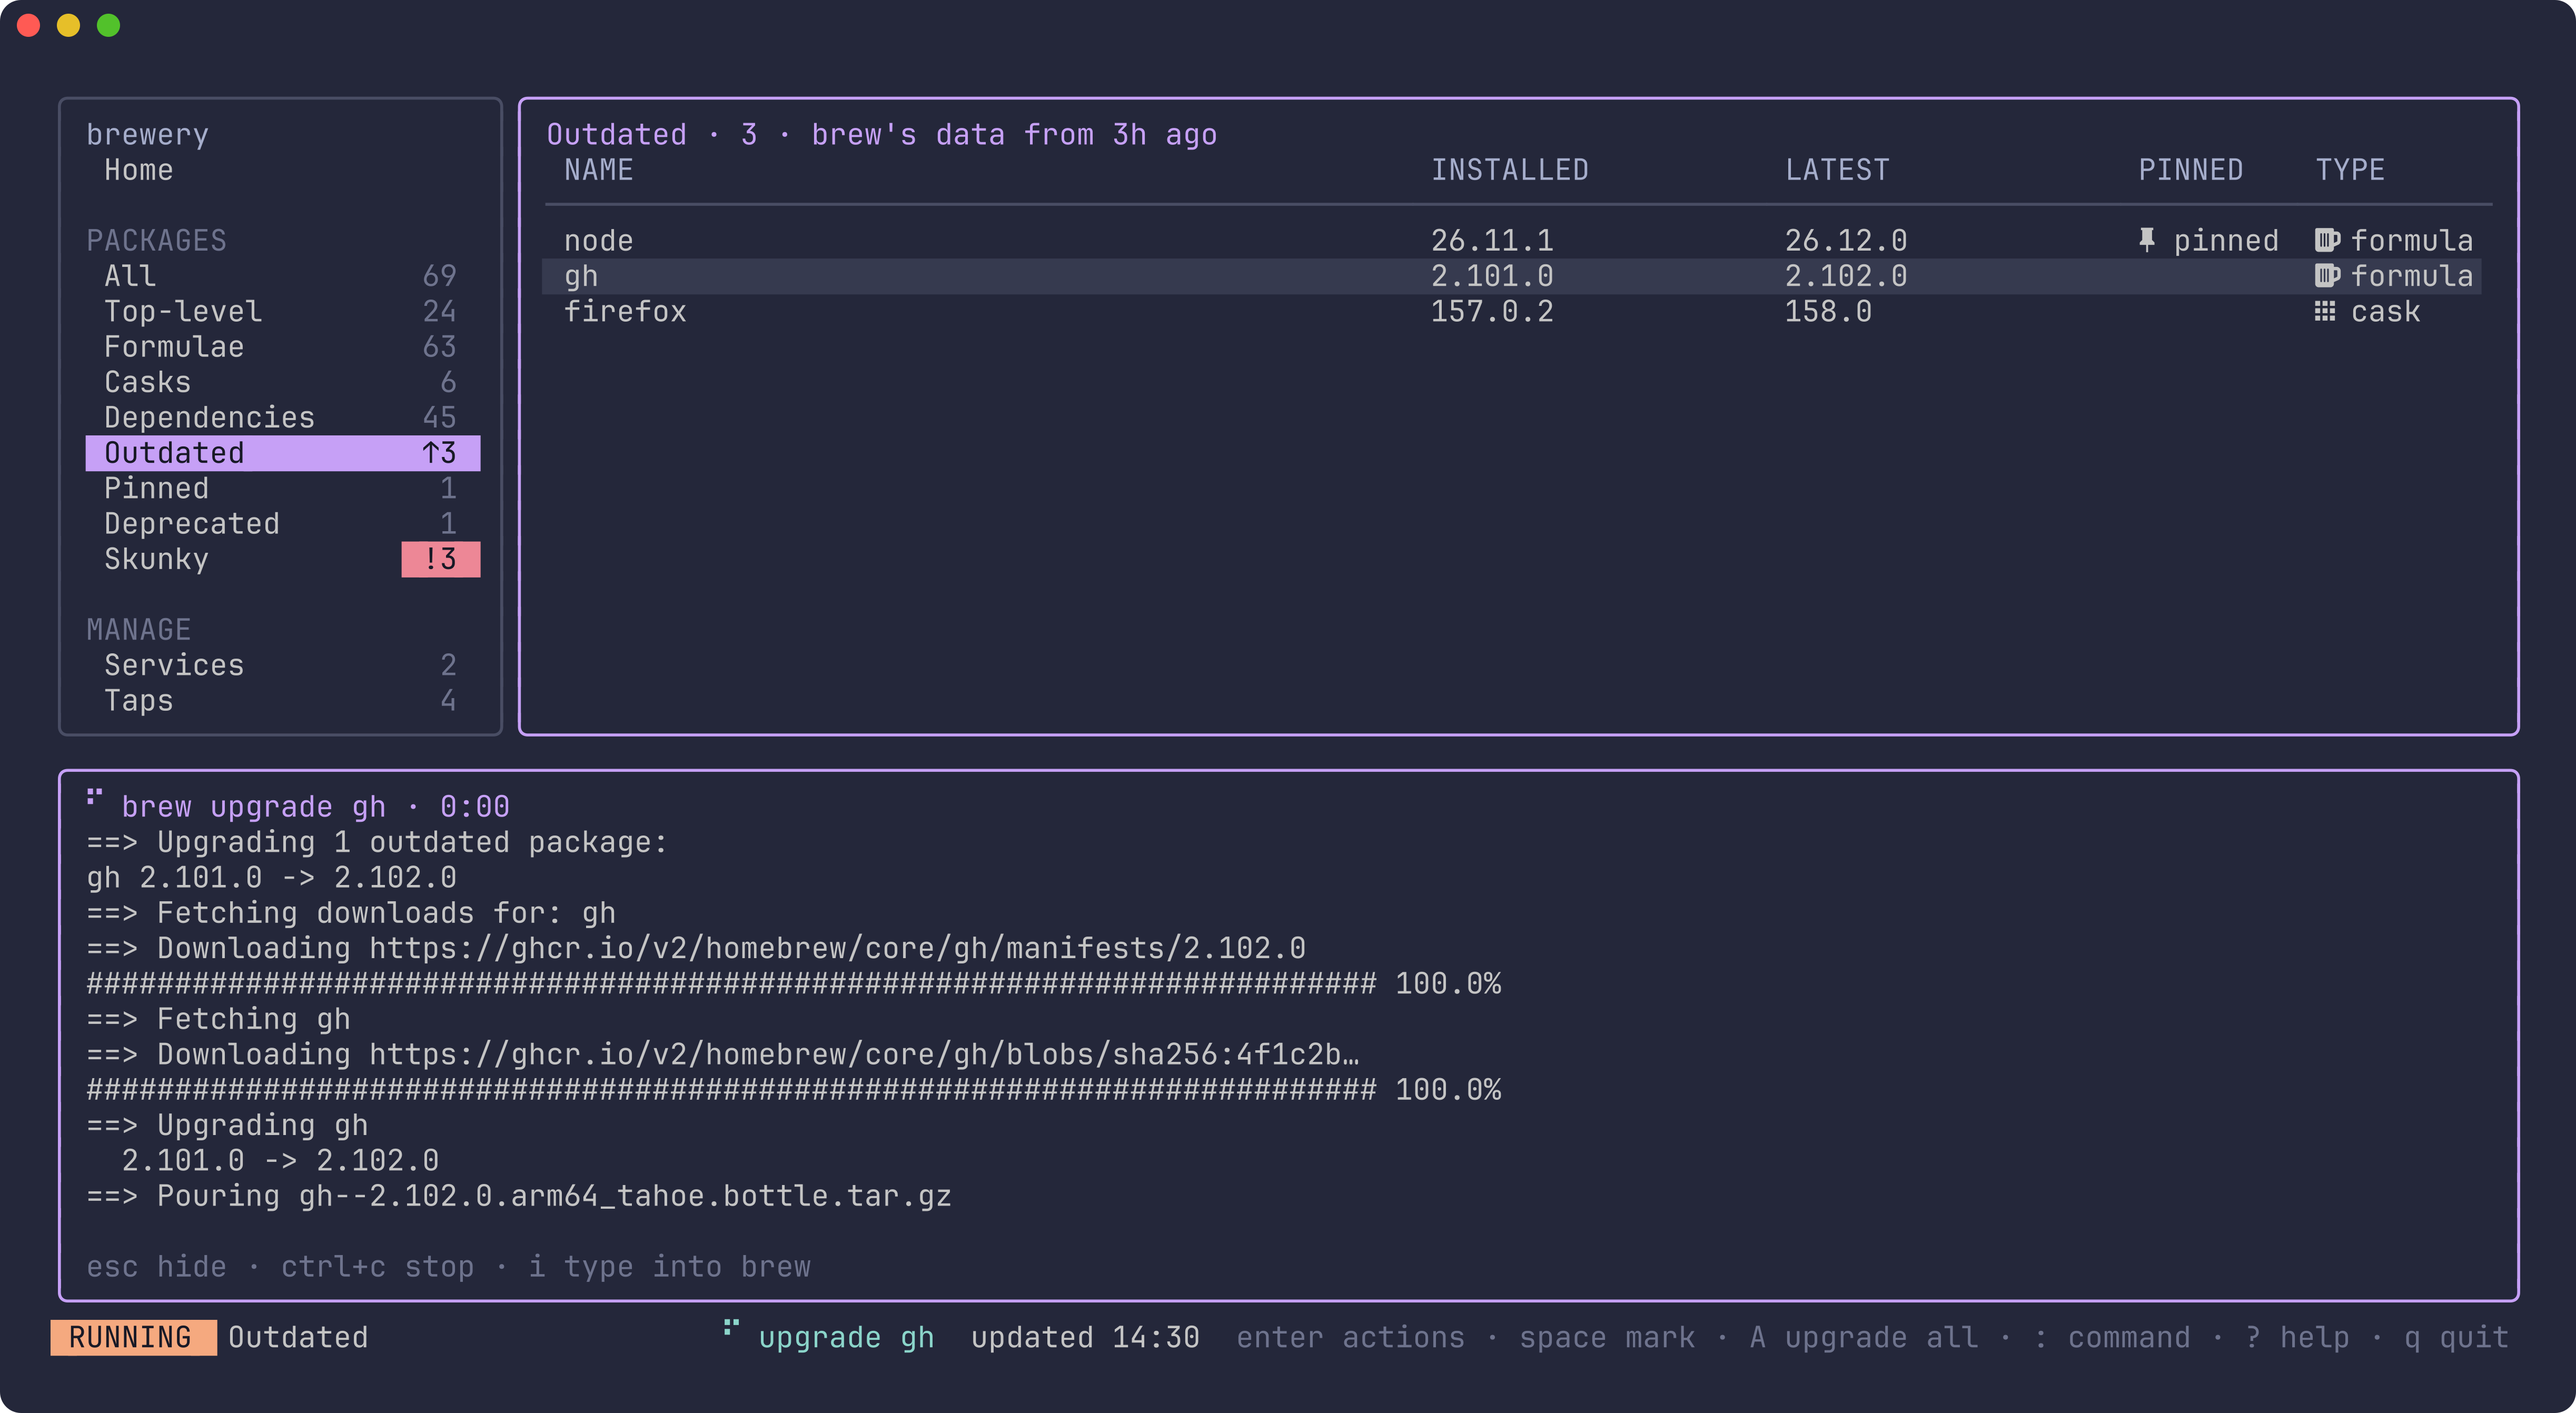
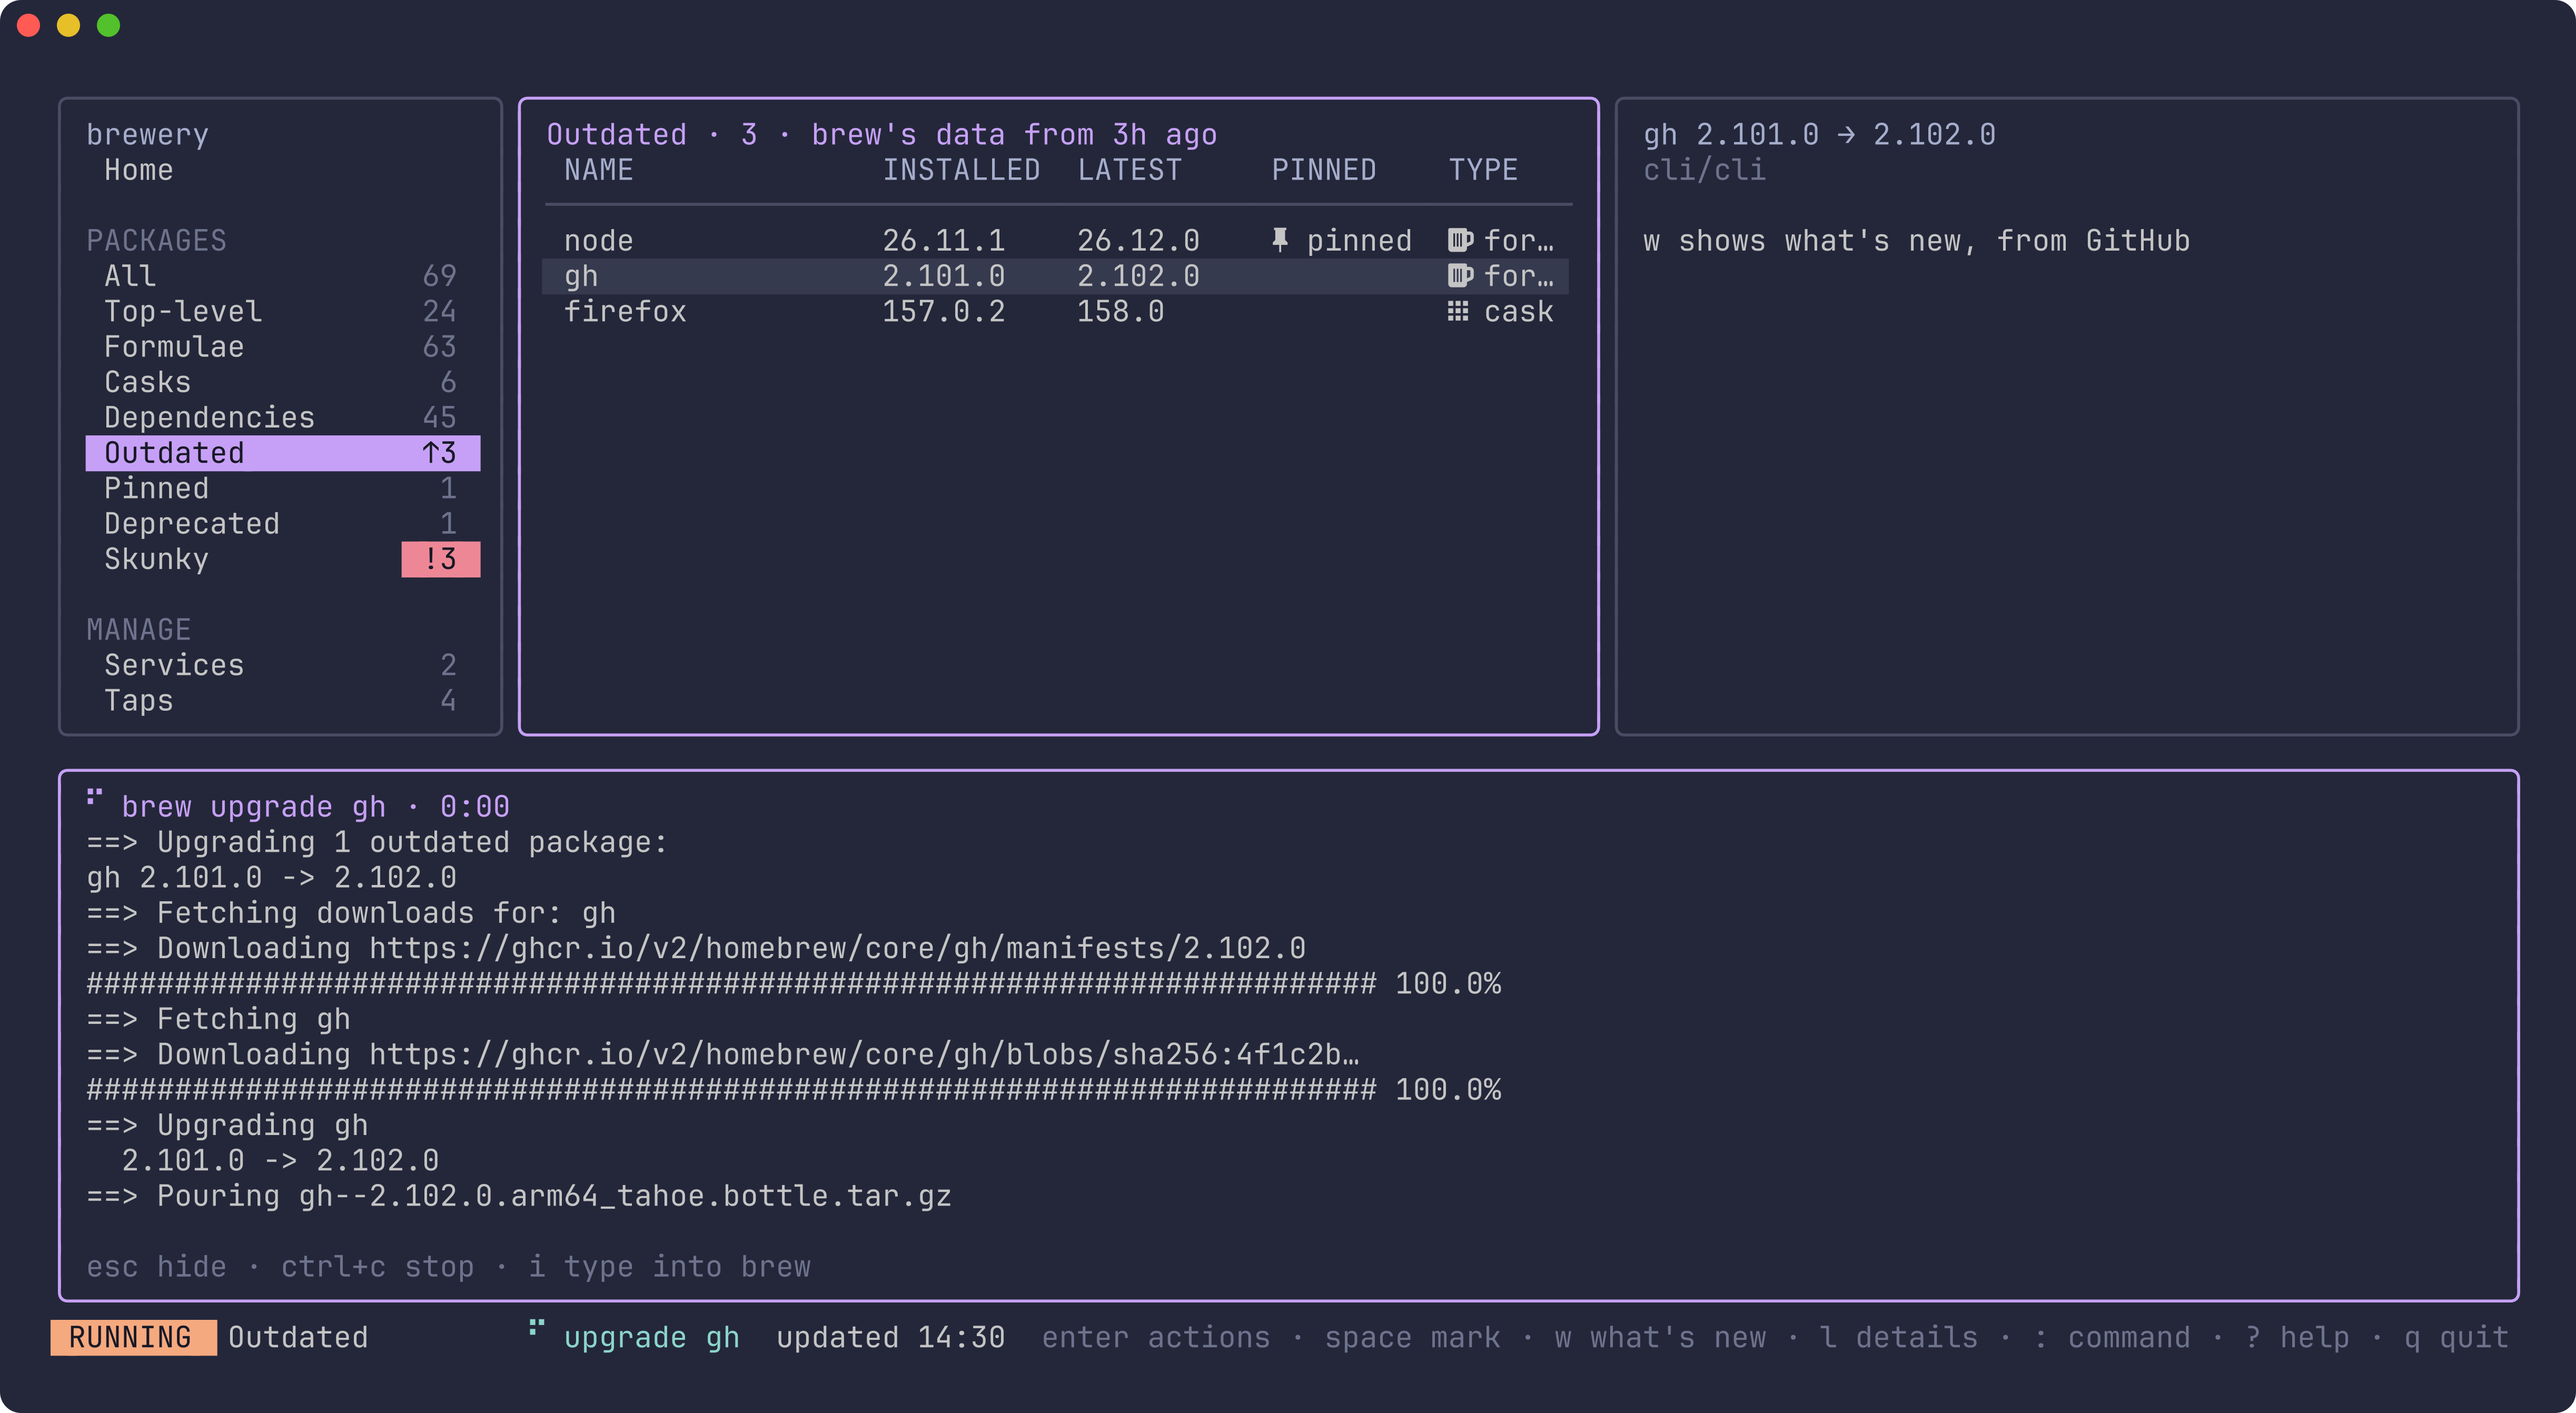
docs: What's new in the README and screenshots
- A new screenshot, whats-new.png: gh's release notes beside Outdated.
- upgrade.png now shows Outdated with its details pane.
- deprecated, installed, menu and skunky pick up the "no Homebrew package
  depends on this" wording from 4967132, which they predated.
- The README gains the screenshot, w in the keys, what gx opens on
  Outdated, and what the cache keeps.
- make screenshots needs librsvg: freeze's own renderer draws no text in
  the JetBrains Mono Nerd Font.

diff --git a/README.md b/README.md
@@ -66,12 +66,12 @@ A few notes:
   dependency is pinned behind it.
 - Uninstall, with an offer to remove the dependencies nothing else needs.
 - What's new: press `w` on an outdated package to read the release notes
-  from GitHub for every version you'd be skipping over, newest first. Words
-  like *breaking* and *removed* are highlighted, and Upgrade all warns when
-  notes you've read mention them. Brewery asks GitHub only when you press
-  `w` or pick What's new, sends it only the repository's name, and keeps
-  what it fetched.
-  Packages that aren't on GitHub link to their homepage instead.
+  from GitHub for every version you'd be skipping over, newest first, beside
+  the Outdated list. Words like *breaking* and *removed* are highlighted, and
+  Upgrade all warns when notes you've read mention them. brewery asks GitHub
+  only when you press `w` or pick What's new, sends it only the repository's
+  name, and keeps what it fetched until there's a newer version. Packages
+  that aren't on GitHub point to their homepage instead.
 - Pin and unpin, reinstall, link and unlink (including keg-only formulae),
   and fetch a newer version ahead of upgrading.
 - Deprecated and disabled packages are marked in the list, and their details
@@ -142,6 +142,10 @@ Press `enter` on a row for everything you can do with it.
 
 ![The action menu for gh: upgrade, fetch, reinstall, unlink, pin, uninstall, copy the name and open the homepage, each with its key](docs/screenshots/menu.png)
 
+What's new in an upgrade, from the project's release notes on GitHub.
+
+![What's new in gh 2.102.0, beside the Outdated list: its features, fixes and a breaking change, with "breaking" and "removed" highlighted](docs/screenshots/whats-new.png)
+
 Packages on their way out, with brew's reason and what to install instead.
 
 ![The Deprecated view: python@3.13, a versioned formula that will be disabled on 2027-04-01, with python@3.15 as its replacement](docs/screenshots/deprecated.png)
@@ -165,7 +169,7 @@ Find popular and rising packages, and install them.
 
 brew's own output, live. Answer its questions right in the drawer.
 
-![An upgrade of gh running, with brew's output in the drawer below the Outdated list](docs/screenshots/upgrade.png)
+![An upgrade of gh running, with brew's output in the drawer below the Outdated list and gh's details](docs/screenshots/upgrade.png)
 
 Type `/` in the sidebar to jump to an entry.
 
@@ -222,7 +226,7 @@ its actions.
 | `l` `tab` | the details, then `j` `k` scroll them |
 | `/` | filter the list; `esc` clears it |
 | `y` | copy the name (on History, the command) |
-| `gx` | open the homepage |
+| `gx` | open the homepage; on Outdated, the GitHub page for an upgrade with no release notes |
 | `space` | mark several (Installed and Outdated) |
 
 **Shortcuts for actions**, all also in the action menu:
@@ -237,6 +241,7 @@ its actions.
 | | `f` | fetch the newer version |
 | Outdated | `u` | upgrade |
 | | `f` | fetch the newer version |
+| | `w` | what's new, from GitHub |
 | | `A` | upgrade all |
 | Services | `s` `S` `R` | start, stop, restart |
 | | `L` | follow the log full screen |
@@ -258,7 +263,7 @@ its actions.
 
 - `$XDG_CACHE_HOME/brewery` (default `~/.cache/brewery`): the last snapshot
   of your packages, so brewery opens instantly, Homebrew's install counts,
-  and what Check taps last found.
+  what Check taps last found, and the release notes What's new fetched.
 - `$XDG_STATE_HOME/brewery` (default `~/.local/state/brewery`): the history
   of jobs brewery ran, the theme you chose, and crash logs.
 
@@ -272,8 +277,11 @@ make test
 `make screenshots` regenerates the images above from a made-up machine
 (`internal/ui/testdata/demo`). It needs Charm's
 [freeze](https://github.com/charmbracelet/freeze)
-(`go install github.com/charmbracelet/freeze@v0.2.2`) and the JetBrains Mono
-Nerd Font (`brew install --cask font-jetbrains-mono-nerd-font`).
+(`go install github.com/charmbracelet/freeze@v0.2.2`), librsvg
+(`brew install librsvg`; without its `rsvg-convert`, freeze draws the
+screenshots with no text in this font) and the JetBrains Mono Nerd Font
+(`brew install --cask font-jetbrains-mono-nerd-font`). Run it with
+`FREEZE=<path>` when freeze isn't on your `PATH`.
 
 `make demo` records the demo video the same way: a script drives brewery on
 the made-up machine, [VHS](https://github.com/charmbracelet/vhs) records it,
